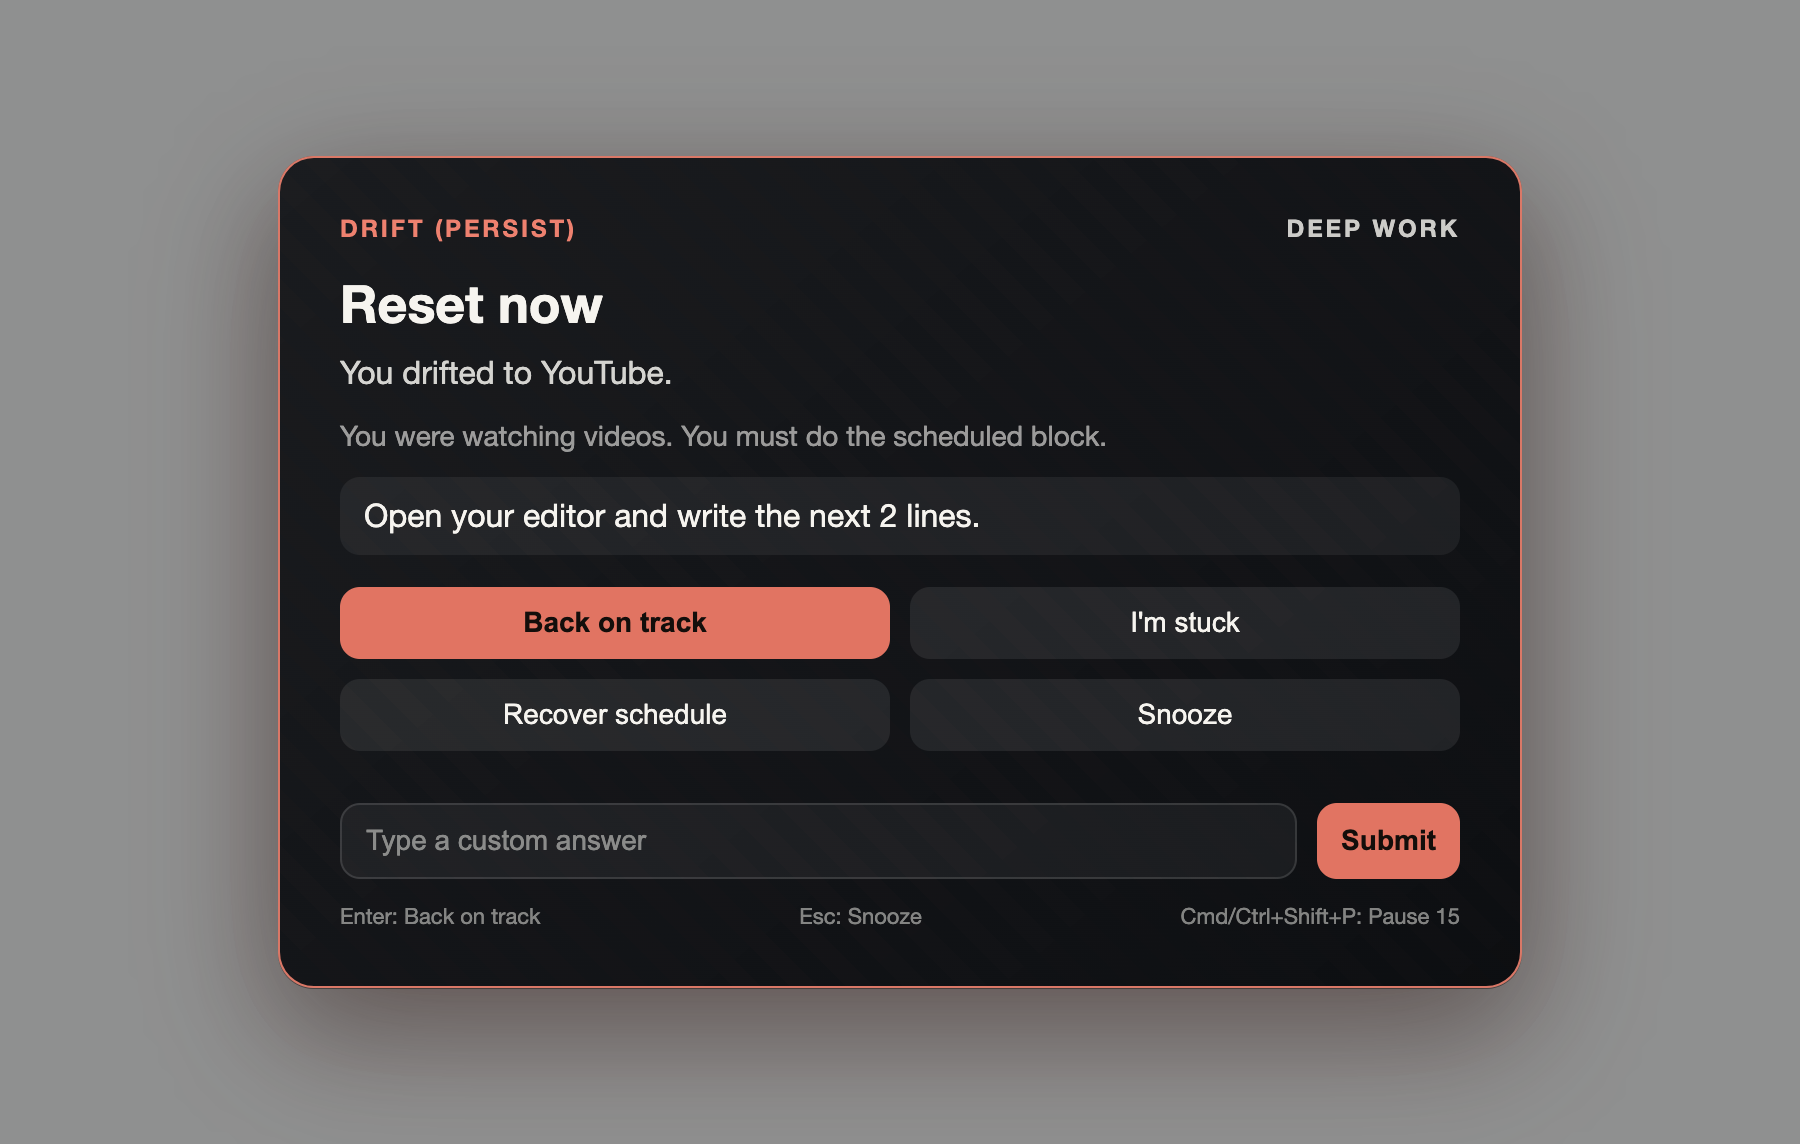
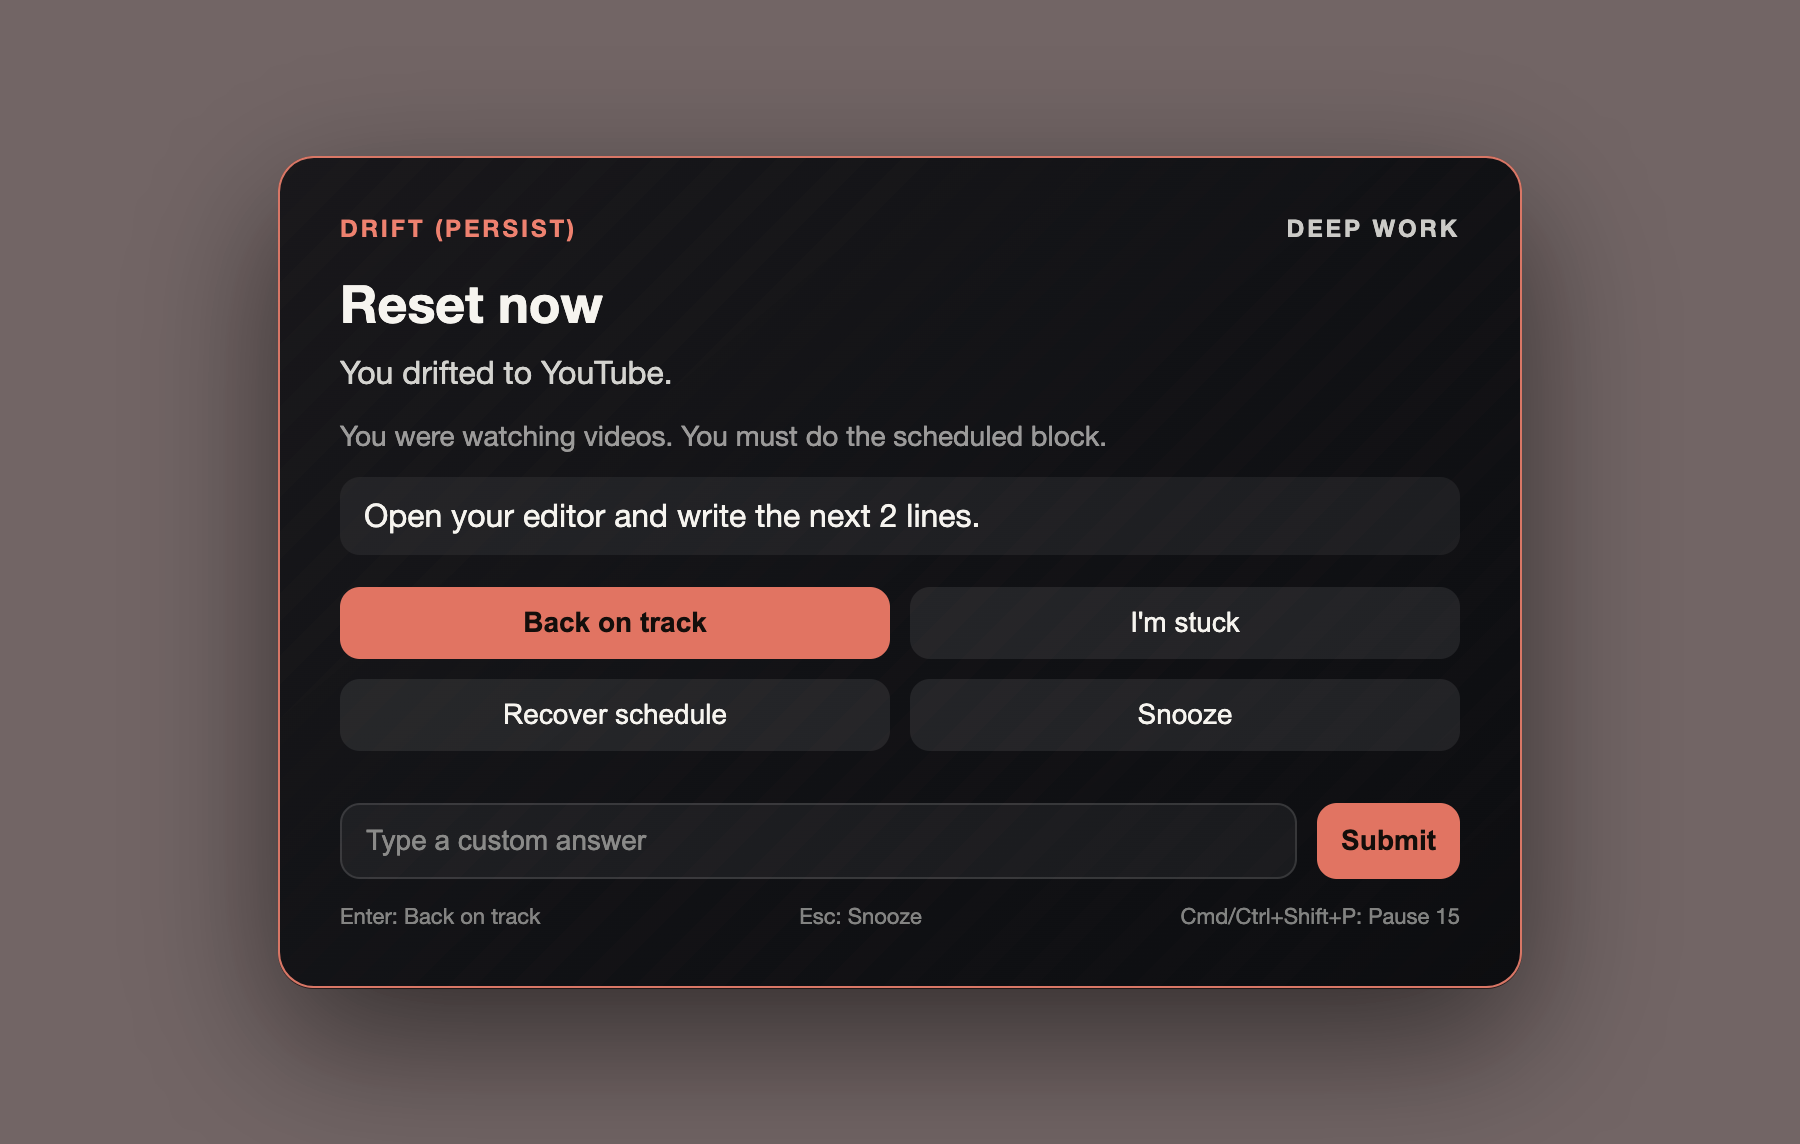
Overlay: pattern-break on DRIFT_PERSIST

diff --git a/overlay/overlay.js b/overlay/overlay.js
@@ -21,6 +21,7 @@ let shownAt = null;
 let currentPayload = null;
 
 function setText(el, value) {
+  if (!el) return;
   el.textContent = value || "";
 }
 
@@ -41,23 +42,31 @@ function resetAlignInput() {
   alignInput.classList.add("hidden");
 }
 
+function formatDriftLabel(payload) {
+  const type = payload?.event_type || "";
+  if (type === "DRIFT_PERSIST") return "DRIFT (PERSIST)";
+  if (type === "OFF_SCHEDULE") return "OFF-SCHEDULE";
+  if (type === "HABIT_ESCALATE") return "HABIT";
+  if (type === "STUCK") return "STUCK";
+  return "DRIFT";
+}
+
 function showOverlay(payload) {
   overlay.classList.remove("hidden");
   resetSnooze();
   resetAlignInput();
+
+  overlay.dataset.styleId = payload.style_id || "";
+  overlay.dataset.eventType = payload.event_type || "";
+
   if (payload.choices && Array.isArray(payload.choices)) {
     overlay.dataset.mode = "align";
   } else {
     overlay.dataset.mode = "";
   }
 
-  overlay.dataset.styleId = payload.style_id || "";
-  overlay.dataset.eventType = payload.event_type || "";
-
-  if (driftLabel) {
-    driftLabel.textContent = payload.event_type === "DRIFT_PERSIST" ? "DRIFT (PERSIST)" : "DRIFT";
-  }
-
+  updatePrimaryLabel(payload);
+  setText(driftLabel, formatDriftLabel(payload));
   setText(blockName, payload.block_name || "");
   setText(headline, payload.headline || "Reset.");
   setText(humanLine, payload.human_line || "");
@@ -77,7 +86,11 @@ function showOverlay(payload) {
       const button = document.createElement("button");
       button.textContent = choice;
       button.addEventListener("click", () => {
-        sendAction({ action: "align_choice", value: choice, question_id: currentPayload?.question_id || null });
+        sendAction({
+          action: "align_choice",
+          value: choice,
+          question_id: currentPayload?.question_id || null
+        });
       });
       choiceButtons.appendChild(button);
     });
@@ -112,7 +125,11 @@ recoverBtn.addEventListener("click", () => sendAction({ action: "recover" }));
 alignSubmit.addEventListener("click", () => {
   const value = alignText.value.trim();
   if (!value) return;
-  sendAction({ action: "align_choice", value, question_id: currentPayload?.question_id || null });
+  sendAction({
+    action: "align_choice",
+    value,
+    question_id: currentPayload?.question_id || null
+  });
   alignText.value = "";
 });
 
@@ -139,6 +156,10 @@ snooze.addEventListener("click", (event) => {
 window.overlayAPI.onShow((payload) => {
   showOverlay(payload);
 });
+
+// Test-only hook used by `npm run screenshot`.
+// Safe to leave in production: it's only callable from within the overlay page.
+window.overlayAPI.__testShow = (payload) => showOverlay(payload);
 
 window.overlayAPI.onPause(() => {
   sendAction({ action: "pause_15" });

diff --git a/overlay/overlay.css b/overlay/overlay.css
@@ -22,17 +22,22 @@ html, body {
   box-shadow: 0 24px 70px rgba(241, 108, 91, 0.12), 0 20px 60px rgba(0, 0, 0, 0.45);
 }
 
-/* DRIFT_PERSIST = deliberate pattern-break so it can't fade into the background. */
+/* Visual pattern-break when drift persists: deliberate + unmistakable, but deterministic (no animation). */
+#overlay[data-event-type="DRIFT_PERSIST"] {
+  background: rgba(30, 6, 6, 0.62);
+}
+
 #overlay[data-event-type="DRIFT_PERSIST"] .card {
   border-color: rgba(255, 122, 105, 0.9);
+  box-shadow: 0 26px 70px rgba(0, 0, 0, 0.55);
   background:
     linear-gradient(140deg, rgba(19, 22, 26, 0.9), rgba(10, 12, 15, 0.96)),
     repeating-linear-gradient(
-      45deg,
-      rgba(255, 122, 105, 0.16) 0,
+      135deg,
+      rgba(255, 122, 105, 0.16) 0px,
       rgba(255, 122, 105, 0.16) 10px,
       rgba(0, 0, 0, 0) 10px,
-      rgba(0, 0, 0, 0) 20px
+      rgba(0, 0, 0, 0) 22px
     );
 }
 

diff --git a/runner.py b/runner.py
@@ -1120,6 +1120,7 @@ def main() -> int:
                 "ts": now.isoformat(),
                 "cmd_id": ensure_uuid(),
                 "source_event_id": None,
+                "event_type": "ALIGN_REQUIRED",
                 "source": "runner",
                 "level": "B",
                 "style_id": "calm",
@@ -1159,6 +1160,7 @@ def main() -> int:
                     "ts": dt.datetime.now().isoformat(),
                     "cmd_id": ensure_uuid(),
                     "source_event_id": event.get("event_id"),
+                    "event_type": event.get("type"),
                     "source": "runner",
                     "level": "B",
                     "style_id": "strict",
@@ -1178,6 +1180,7 @@ def main() -> int:
                     "ts": dt.datetime.now().isoformat(),
                     "cmd_id": ensure_uuid(),
                     "source_event_id": event.get("event_id"),
+                    "event_type": event.get("type"),
                     "source": "runner",
                     "level": "A",
                     "style_id": "calm",
@@ -1196,6 +1199,7 @@ def main() -> int:
                     "ts": dt.datetime.now().isoformat(),
                     "cmd_id": ensure_uuid(),
                     "source_event_id": event.get("event_id"),
+                    "event_type": event.get("type"),
                     "source": "runner",
                     "level": "B",
                     "style_id": "strict",
